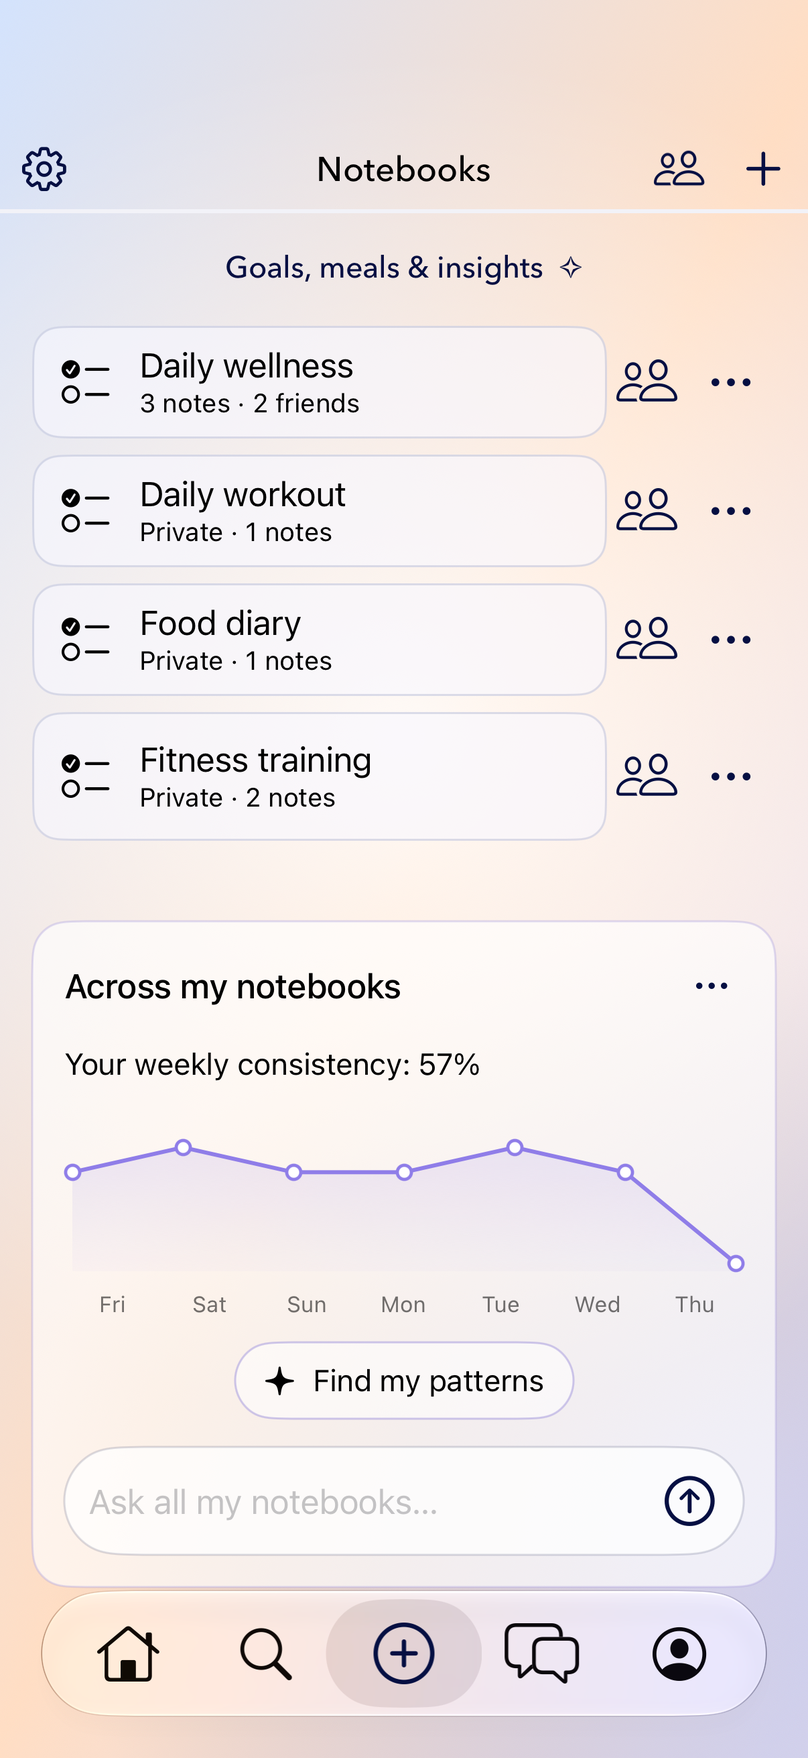
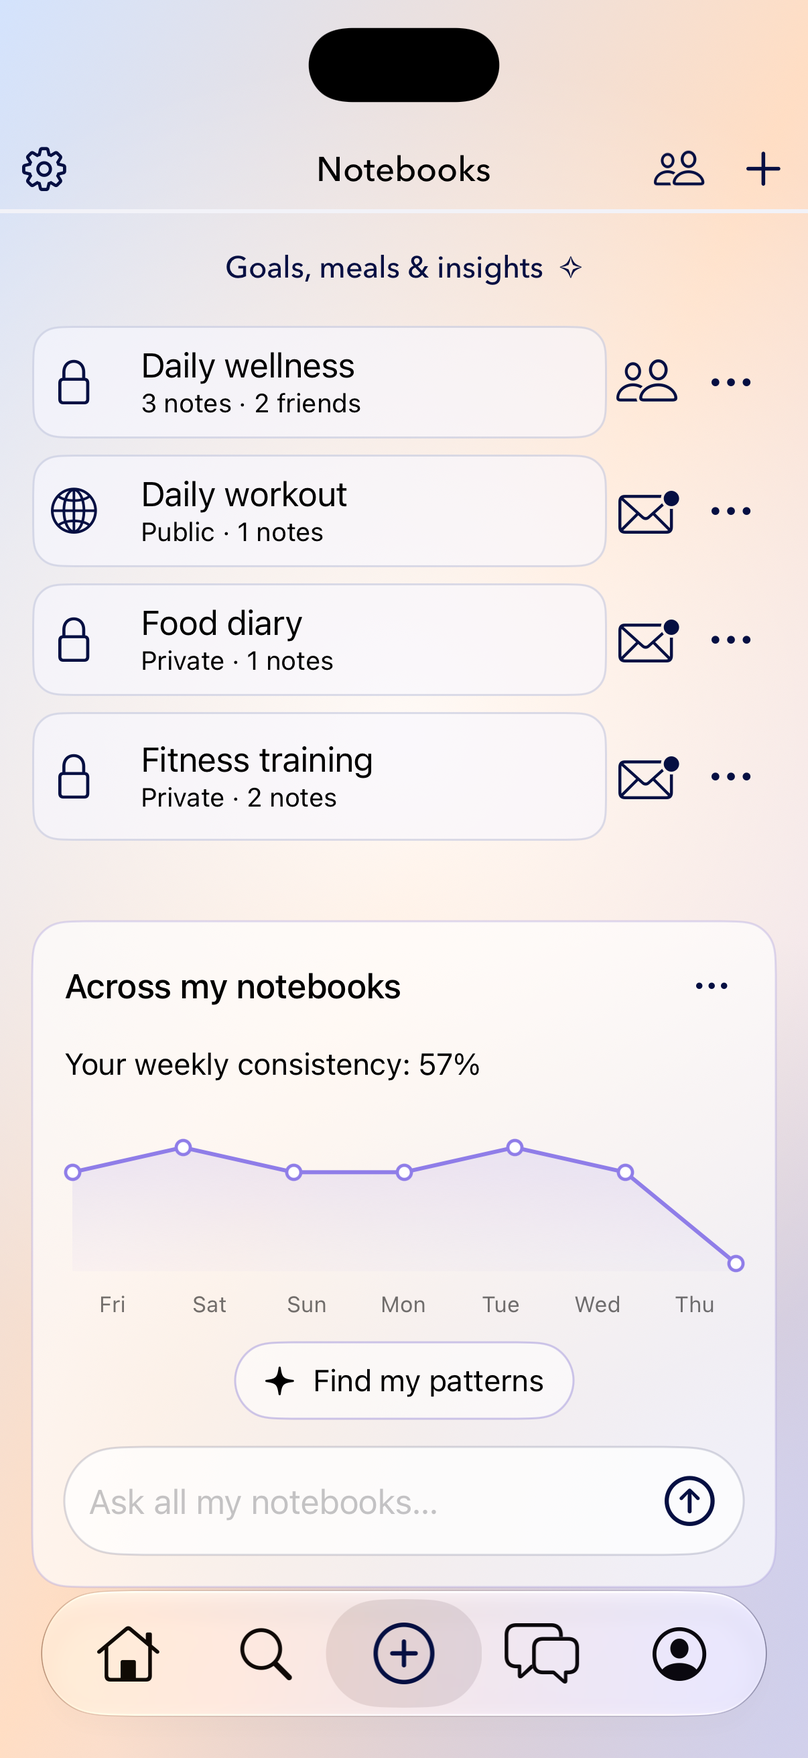
Restore Newsfeed visibility controls and distinguish notebook invitations from accepted editors

diff --git a/Notes/ViewControllers/NoteCategoryListVC.swift b/Notes/ViewControllers/NoteCategoryListVC.swift
@@ -324,15 +324,17 @@ class NoteCategoryListVC: UIViewController, UITableViewDelegate, UITableViewData
         
         cell.btnDelete.removeTarget(self, action: #selector(self.btnDeletePressed(_:)), for: .touchUpInside)
         cell.btnUpdate.removeTarget(self, action: #selector(self.btnUpdatePressed(_:)), for: .touchUpInside)
-        cell.btnUpdate.setImage(UIImage(systemName: "person.2", withConfiguration: UIImage.SymbolConfiguration(pointSize: 18, weight: .regular)), for: .normal)
+        cell.btnUpdate.setImage(UIImage(systemName: CollaborationStore.shared.icon(kind: "legacy", sourceID: note.categoryKey ?? ""), withConfiguration: UIImage.SymbolConfiguration(pointSize: 18, weight: .regular)), for: .normal)
         cell.btnUpdate.tintColor = ApplazAppearance.accent
-        cell.btnUpdate.accessibilityLabel = CollaborationStore.shared.match(kind: "legacy", sourceID: note.categoryKey ?? "") == nil ? "Invite friends to notebook" : "Friends in this notebook"
+        cell.btnUpdate.accessibilityLabel = !CollaborationStore.shared.hasEditors(kind: "legacy", sourceID: note.categoryKey ?? "") ? "Invite friends to notebook" : "Friends in this notebook"
         cell.btnUpdate.removeAction(identifiedBy: UIAction.Identifier("InviteNotebookFriends"), for: .touchUpInside)
         cell.btnUpdate.addAction(UIAction(identifier: UIAction.Identifier("InviteNotebookFriends")) { [weak self, weak cell] _ in
             guard let self, let cell, let row = self.tblViewNoteCateoryTitle.indexPath(for: cell)?.row, let id = self.notes[row].categoryKey else { return }
             CollaborationPresentation.invite(kind: "legacy", sourceID: id, from: self)
         }, for: .touchUpInside)
+        cell.btnShare.removeTarget(self, action: #selector(self.btnSharedPressed(_:)), for: .touchUpInside)
         cell.btnShare.addTarget(self, action: #selector(self.btnSharedPressed(_:)), for: .touchUpInside)
+        cell.btnShare.accessibilityLabel = (note.isPrivateNote == true ? "Private notebook. Make public" : "Public notebook. Make private")
         
         let moreIcon = UIImage(systemName: "ellipsis", withConfiguration: UIImage.SymbolConfiguration(pointSize: 20, weight: .regular))
         cell.btnDelete.setImage(moreIcon, for: .normal)
@@ -355,14 +357,14 @@ class NoteCategoryListVC: UIViewController, UITableViewDelegate, UITableViewData
         
         if self.notes[indexPath.row].isPrivateNote ?? false {
            // cell.btnShare.setTitle("Private", for: .normal)
-            let lockIcon = UIImage(systemName: "lock")?.withRenderingMode(.alwaysTemplate)
+            let lockIcon = UIImage(systemName: "lock", withConfiguration: UIImage.SymbolConfiguration(pointSize: 18, weight: .regular))?.withRenderingMode(.alwaysTemplate)
             cell.btnShare.setImage(lockIcon, for: .normal)
-            cell.btnShare.tintColor = .black
+            cell.btnShare.tintColor = ApplazAppearance.accent
         } else {
             //cell.btnShare.setTitle("Shared", for: .normal)
-            let globeIcon = UIImage(systemName: "globe.americas.fill")?.withRenderingMode(.alwaysTemplate)
+            let globeIcon = UIImage(systemName: "globe", withConfiguration: UIImage.SymbolConfiguration(pointSize: 18, weight: .regular))?.withRenderingMode(.alwaysTemplate)
             cell.btnShare.setImage(globeIcon, for: .normal)
-            cell.btnShare.tintColor = .black
+            cell.btnShare.tintColor = ApplazAppearance.accent
         }
         cell.backGroundView.layer.cornerRadius = 12
         cell.backGroundView.clipsToBounds = true
@@ -477,12 +479,12 @@ class NoteCategoryListVC: UIViewController, UITableViewDelegate, UITableViewData
             config.title = notebook.name
             config.subtitle = (notebook.isPrivate == false ? "Public · " : "Private · ") + String(notebook.notes.count) + " notes"
             if let count = CollaborationStore.shared.match(kind: "health", sourceID: notebook.id)?.editorCount, count > 0 { config.subtitle = String(notebook.notes.count) + " notes · " + String(count) + (count == 1 ? " friend" : " friends") }
-            config.image = UIImage(systemName: notebook.kind == "text" ? "book.closed" : "checklist")
+            config.image = nil
             config.imagePadding = 12; config.baseForegroundColor = .black
-            config.background.backgroundColor = ApplazAppearance.surface
+            config.background.backgroundColor = .clear
             config.background.cornerRadius = 14
             config.background.strokeColor = ApplazAppearance.outline
-            config.background.strokeWidth = 1
+            config.background.strokeWidth = 0
             button.configuration = config
             button.contentHorizontalAlignment = .leading
             button.addAction(UIAction { [weak self] _ in guard let self else { return }; if let shared = CollaborationStore.shared.match(kind: "health", sourceID: notebook.id) { CollaborationPresentation.open(shared.id, from: self) } else { WellnessPresentation.notebook(notebook.id, from: self) } }, for: .touchUpInside)
@@ -505,11 +507,21 @@ class NoteCategoryListVC: UIViewController, UITableViewDelegate, UITableViewData
             more.menu = UIMenu(children: options)
             more.widthAnchor.constraint(equalToConstant: 44).isActive = true
             let invite = UIButton(type: .system)
-            invite.setImage(UIImage(systemName: "person.2", withConfiguration: UIImage.SymbolConfiguration(pointSize: 18, weight: .regular)), for: .normal); invite.tintColor = ApplazAppearance.accent
-            invite.accessibilityLabel = CollaborationStore.shared.match(kind: "health", sourceID: notebook.id) == nil ? "Invite friends to " + notebook.name : "Friends in " + notebook.name
+            invite.setImage(UIImage(systemName: CollaborationStore.shared.icon(kind: "health", sourceID: notebook.id), withConfiguration: UIImage.SymbolConfiguration(pointSize: 18, weight: .regular)), for: .normal); invite.tintColor = ApplazAppearance.accent
+            invite.accessibilityLabel = !CollaborationStore.shared.hasEditors(kind: "health", sourceID: notebook.id) ? "Invite friends to " + notebook.name : "Friends in " + notebook.name
             invite.widthAnchor.constraint(equalToConstant: 36).isActive = true
             invite.addAction(UIAction { [weak self] _ in guard let self else { return }; CollaborationPresentation.invite(kind: "health", sourceID: notebook.id, from: self) }, for: .touchUpInside)
-            let row = UIStackView(arrangedSubviews: [button, invite, more]); row.spacing = 2
+            let visibility = UIButton(type: .system)
+            visibility.setImage(UIImage(systemName: notebook.isPrivate == false ? "globe" : "lock", withConfiguration: UIImage.SymbolConfiguration(pointSize: 18, weight: .regular)), for: .normal)
+            visibility.tintColor = ApplazAppearance.accent
+            visibility.accessibilityLabel = "Visibility of " + notebook.name
+            visibility.accessibilityValue = notebook.isPrivate == false ? "Public" : "Private"
+            visibility.widthAnchor.constraint(equalToConstant: 42).isActive = true
+            visibility.isEnabled = notebook.id != "start-here-v1"
+            visibility.addAction(UIAction { [weak self] _ in self?.changeWellnessVisibility(notebook.id) }, for: .touchUpInside)
+            let content = UIStackView(arrangedSubviews: [visibility, button]); content.spacing = 0
+            content.backgroundColor = ApplazAppearance.surface; content.layer.cornerRadius = 14; content.layer.borderWidth = 1; content.layer.borderColor = ApplazAppearance.outline.cgColor
+            let row = UIStackView(arrangedSubviews: [content, invite, more]); row.spacing = 2
             row.heightAnchor.constraint(equalToConstant: 56).isActive = true
             stack.addArrangedSubview(row)
         }
@@ -524,6 +536,14 @@ class NoteCategoryListVC: UIViewController, UITableViewDelegate, UITableViewData
         tblViewNoteCateoryTitle.tableHeaderView = header
         tblViewNoteCateoryTitle.isHidden = false
         lblNotesCategoryNotFound.isHidden = true
+    }
+    private func changeWellnessVisibility(_ id: String) {
+        guard let notebook = WellnessStore.shared.notebooks.first(where: { $0.id == id }), id != "start-here-v1" else { return }
+        let makePrivate = notebook.isPrivate == false
+        let alert = UIAlertController(title: makePrivate ? "Make notebook private?" : "Share notebook to Newsfeed?", message: makePrivate ? "Your notebook will no longer appear in Newsfeed. Your collaborators can still edit it." : "Public notes can appear in Newsfeed. Meal logs, dated health reflections and AI chats stay private.", preferredStyle: .alert)
+        alert.addAction(UIAlertAction(title: "Cancel", style: .cancel))
+        alert.addAction(UIAlertAction(title: makePrivate ? "Make private" : "Make public", style: .default) { _ in WellnessStore.shared.setVisibility(id, isPrivate: makePrivate) })
+        present(alert, animated: true)
     }
     @objc private func openPrivateNotebooks() { WellnessPresentation.library(from: self) }
 
@@ -650,57 +670,28 @@ class NoteCategoryListVC: UIViewController, UITableViewDelegate, UITableViewData
     private func updateDataBase() {
         
     }
-    @objc func btnSharedPressed(_ sender : UIButton) {
-        var note = self.notes[sender.tag]
-        guard let isPrivateNote = note.isPrivateNote else { return }
-        
-        if isPrivateNote {
-            // Ask here to make socialised
-            self.alertPermissionMessage(message: "Are you sure? \n To make your notebook public.") { isProceed in
-                if isProceed {
-                    // Update the note as social isPrivate = false
-                    if !(UserDefaults.standard.bool(forKey: Guest_Key)) {
-                        self.database.editDatabaseRecords(categoryNote: note.categoryName, titleNote: nil, categoryKey: note.categoryKey, titleKey: nil, note: nil, isPrivateNote: false){ (err) in
-                            if let _ = err {
-                                // Toast(text: "\(kCATEGORY_NOT_UPDATED)").show()
-                            } else {
-                                // Toast(text: "\(kCATEGORY_UPDATED)").show()
-                            }
-                        }
-                          self.getNotesAllCategories()
-                    } else {
-                        note.categoryName = note.categoryName
-                        self.notes.remove(at: sender.tag)
-                        self.notes.append(note)
-                        self.updateTableView()
+    @objc func btnSharedPressed(_ sender: UIButton) {
+        guard notes.indices.contains(sender.tag) else { return }
+        let original = notes[sender.tag]
+        let makePrivate = original.isPrivateNote != true
+        alertPermissionMessage(message: makePrivate ? "Make this notebook private?" : "Share this notebook to Newsfeed?") { [weak self] proceed in
+            guard proceed, let self else { return }
+            if UserDefaults.standard.bool(forKey: Guest_Key) {
+                guard self.notes.indices.contains(sender.tag) else { return }
+                self.notes[sender.tag].isPrivateNote = makePrivate
+                self.updateTableView()
+            } else {
+                self.database.editDatabaseRecords(categoryNote: original.categoryName, titleNote: nil, categoryKey: original.categoryKey, titleKey: nil, note: nil, isPrivateNote: makePrivate) { [weak self] error in
+                    DispatchQueue.main.async {
+                        guard let self else { return }
+                        if error == nil { self.getNotesAllCategories() }
+                        else { let alert = UIAlertController(title: "Couldn’t update visibility", message: "Please try again.", preferredStyle: .alert); alert.addAction(UIAlertAction(title: "OK", style: .default)); self.present(alert, animated: true) }
                     }
-                }
-            }
-        } else {
-            // Ask here to make private
-            self.alertPermissionMessage(message: "Are you sure? \n To make your notebook private.") { isProceed in
-                // Update the note as private = true
-                if !(UserDefaults.standard.bool(forKey: Guest_Key)) {
-                    self.database.editDatabaseRecords(categoryNote: note.categoryName, titleNote: nil, categoryKey: note.categoryKey, titleKey: nil, note: nil, isPrivateNote: true){ (err) in
-                        if let _ = err {
-                            // Toast(text: "\(kCATEGORY_NOT_UPDATED)").show()
-                        } else {
-                            // Toast(text: "\(kCATEGORY_UPDATED)").show()
-                        }
-                    }
-                      self.getNotesAllCategories()
-                } else {
-                    note.categoryName = note.categoryName
-                    self.notes.remove(at: sender.tag)
-                    self.notes.append(note)
-                    self.updateTableView()
                 }
             }
         }
     }
-    
-    
-    
+
     @IBAction func btnSettingPressed(_ sender: UIButton) {
         let settingsVC = self.storyboard?.instantiateViewController(withIdentifier: "SettingsVC") as! SettingsVC
         self.navigationController?.pushViewController(settingsVC, animated: true)

diff --git a/Notes/Wellness/WellnessScreens.swift b/Notes/Wellness/WellnessScreens.swift
@@ -247,6 +247,7 @@ struct WellnessLibraryView: View {
     @State private var chat = false
     @State private var inviteID: String?
     @State private var invitationError: String?
+    @State private var visibilityID: String?
     var close: () -> Void
     var body: some View {
         NavigationView { ZStack { WellnessBackground(); VStack(spacing: 0) {
@@ -254,10 +255,11 @@ struct WellnessLibraryView: View {
             ScrollView { VStack(alignment: .leading, spacing: 16) {
                 HStack { Text("Your notebooks").font(.headline); Spacer(); Button { chat = true } label: { Image(systemName: "clock.arrow.circlepath") }.accessibilityLabel("Saved chats") }
                 ForEach(store.notebooks) { notebook in HStack(spacing: 10) {
+                    Button { visibilityID = notebook.id } label: { Image(systemName: notebook.isPrivate == false ? "globe" : "lock").font(.system(size: 18, weight: .regular)).foregroundColor(.applazAccent).frame(width: 36, height: 44) }.accessibilityLabel("Visibility of " + notebook.name).accessibilityValue(notebook.isPrivate == false ? "Public" : "Private").disabled(notebook.id == "start-here-v1")
                     NavigationLink(destination: notebookDestination(notebook.id)) {
-                        HStack { Image(systemName: notebook.kind == "text" ? "book.closed" : "checklist").foregroundColor(.applazAccent); VStack(alignment: .leading, spacing: 4) { Text(notebook.name).font(.headline); Text("\(notebook.isPrivate == false ? "Public" : "Private") · \(notebook.notes.count) \(notebook.notes.count == 1 ? "note" : "notes")").font(.caption).foregroundColor(.black.opacity(0.55)) }; Spacer() }
+                        HStack { VStack(alignment: .leading, spacing: 4) { Text(notebook.name).font(.headline); Text("\(notebook.isPrivate == false ? "Public" : "Private") · \(notebook.notes.count) \(notebook.notes.count == 1 ? "note" : "notes")").font(.caption).foregroundColor(.black.opacity(0.55)) }; Spacer() }
                     }.buttonStyle(.plain)
-                    Button { inviteID = notebook.id } label: { Image(systemName: "person.2").font(.system(size: 18, weight: .regular)).frame(width: 36, height: 44) }.accessibilityLabel(collaboration.match(kind: "health", sourceID: notebook.id) == nil ? "Invite friends to " + notebook.name : "Friends in " + notebook.name)
+                    Button { inviteID = notebook.id } label: { Image(systemName: collaboration.icon(kind: "health", sourceID: notebook.id)).font(.system(size: 18, weight: .regular)).frame(width: 36, height: 44) }.accessibilityLabel(!collaboration.hasEditors(kind: "health", sourceID: notebook.id) ? "Invite friends to " + notebook.name : "Friends in " + notebook.name)
                 }.wellnessCard() }
                 ForEach(collaboration.sharedWithMe) { shared in
                     NavigationLink(destination: CollaborativeNotebookView(notebookID: shared.id)) {
@@ -273,9 +275,15 @@ struct WellnessLibraryView: View {
         }}.foregroundColor(.black).tint(.applazAccent).navigationBarHidden(true) }
         .task { await collaboration.refresh() }
         .sheet(isPresented: Binding(get: { inviteID != nil }, set: { if !$0 { inviteID = nil } })) {
-            if let id = inviteID, let shared = collaboration.match(kind: "health", sourceID: id) { CollaborationMembersView(notebookID: shared.id, notebookName: shared.name) }
+            if let id = inviteID, let shared = collaboration.match(kind: "health", sourceID: id), (shared.editorCount ?? 0) > 0 { CollaborationMembersView(notebookID: shared.id, notebookName: shared.name) }
             else { CollaborationPeoplePicker(done: { people in let id = inviteID; inviteID = nil; guard let id else { return }; Task { do { _ = try await collaboration.invite(kind: "health", sourceID: id, people: people) } catch { invitationError = error.localizedDescription } } }, cancel: { inviteID = nil }) }
         }
+        .confirmationDialog("Notebook visibility", isPresented: Binding(get: { visibilityID != nil }, set: { if !$0 { visibilityID = nil } }), titleVisibility: .visible) {
+            if let id = visibilityID, let notebook = store.notebooks.first(where: { $0.id == id }) {
+                Button(notebook.isPrivate == false ? "Make private" : "Make public") { store.setVisibility(id, isPrivate: notebook.isPrivate == false); visibilityID = nil }
+            }
+            Button("Cancel", role: .cancel) { visibilityID = nil }
+        } message: { Text("Public notes can appear in Newsfeed. Collaborator editing access is separate.") }
         .alert("Couldn’t send invitations", isPresented: Binding(get: { invitationError != nil }, set: { if !$0 { invitationError = nil } })) { Button("OK", role: .cancel) {} } message: { Text(invitationError ?? "") }
         .navigationViewStyle(.stack).confirmationDialog("Copy guest notebooks and meals from this device into your signed-in account?", isPresented: $importGuest, titleVisibility: .visible) { Button("Copy my guest work") { store.importGuestWork() } }.sheet(isPresented: $create) { CreateWellnessNotebookView().modifier(WellnessHalfSheet()) }.sheet(isPresented: $chat) { NavigationView { SavedAIChatsView() } }
     }

diff --git a/Notes/Wellness/Collaboration.swift b/Notes/Wellness/Collaboration.swift
@@ -118,6 +118,8 @@ struct CollaborationMembersView: View {
         #endif
         return notebooks.first { $0.kind == kind && $0.sourceID == sourceID && $0.owner == Auth.auth().currentUser?.uid }
     }
+    func hasEditors(kind: String, sourceID: String) -> Bool { (match(kind: kind, sourceID: sourceID)?.editorCount ?? 0) > 0 }
+    func icon(kind: String, sourceID: String) -> String { hasEditors(kind: kind, sourceID: sourceID) ? "person.2" : "envelope.badge" }
     var sharedWithMe: [CollaborativeNotebook] { notebooks.filter { $0.role != "owner" } }
     func invite(kind: String, sourceID: String, people: [CollaborationPerson], notebookID: String? = nil) async throws -> String {
         var data: [String: Any] = ["kind": kind, "sourceID": sourceID, "recipients": people.map(\.id)]
@@ -155,7 +157,7 @@ struct CollaborationMembersView: View {
         controller.present(view, animated: true)
     }
     static func invite(kind: String, sourceID: String, notebookID: String? = nil, from controller: UIViewController) {
-        if let shared = notebookID.flatMap({ id in CollaborationStore.shared.notebooks.first { $0.id == id } }) ?? CollaborationStore.shared.match(kind: kind, sourceID: sourceID) {
+        if let shared = notebookID.flatMap({ id in CollaborationStore.shared.notebooks.first { $0.id == id } }) ?? CollaborationStore.shared.match(kind: kind, sourceID: sourceID), (shared.editorCount ?? 0) > 0 {
             let host = WellnessHostingController(rootView: CollaborationMembersView(notebookID: shared.id, notebookName: shared.name))
             host.modalPresentationStyle = .pageSheet
             host.sheetPresentationController?.detents = [.medium(), .large()]

diff --git a/functions/collaboration/index.js b/functions/collaboration/index.js
@@ -268,7 +268,7 @@ exports.collaborationLegacyChanged = functions.database.ref("/Users/{owner}/Note
     if (!after) { tx.set(ref, {deleted: true, updatedAt: now}, {merge: true}); return; }
     const current = await readState(tx, ref, meta);
     const notes = new Map(current.notes.map(note => [note.id, note]));
-    let changed = current.name !== after["Category Name"];
+    let changed = current.name !== after["Category Name"] || current.isPrivate !== (after.isPrivateNote !== false);
     for (const note of fromLegacy(after, meta.sourceID, now).notes) {
       const prior = before[note.id]; const existing = notes.get(note.id);
       const differs = !prior || prior["Title name"] !== note.title || prior["Note name"] !== note.body;
@@ -276,7 +276,7 @@ exports.collaborationLegacyChanged = functions.database.ref("/Users/{owner}/Note
     }
     for (const id of Object.keys(before)) if (before[id] && typeof before[id] === "object" && before[id]["Title name"] !== undefined && !after[id]) { if (notes.delete(id)) changed = true; }
     if (!changed) return;
-    current.notes = [...notes.values()]; current.name = after["Category Name"] || current.name; current.updatedAt = now;
+    current.notes = [...notes.values()]; current.name = after["Category Name"] || current.name; current.isPrivate = after.isPrivateNote !== false; current.updatedAt = now;
     writeState(tx, ref, meta, current); tx.set(ref, {name: current.name, revision: meta.revision + 1, updatedAt: now}, {merge: true});
     return null;
   });

diff --git a/Notes/Storyboards/UtilityManager/Gradient Layer.swift b/Notes/Storyboards/UtilityManager/Gradient Layer.swift
@@ -597,7 +597,7 @@ final class NewNotebookViewController: UIViewController {
             return row
         }
         var friendsConfig = UIButton.Configuration.plain()
-        friendsConfig.title = "Invite friends"; friendsConfig.image = UIImage(systemName: "person.2", withConfiguration: UIImage.SymbolConfiguration(pointSize: 18, weight: .regular)); friendsConfig.imagePadding = 8
+        friendsConfig.title = "Invite friends"; friendsConfig.image = UIImage(systemName: "envelope.badge", withConfiguration: UIImage.SymbolConfiguration(pointSize: 18, weight: .regular)); friendsConfig.imagePadding = 8
         friendsConfig.baseForegroundColor = ApplazAppearance.accent
         inviteFriendsButton.configuration = friendsConfig
         inviteFriendsButton.tintColor = ApplazAppearance.accent

diff --git a/docs/Applaz-Plus-activation.md b/docs/Applaz-Plus-activation.md
@@ -143,3 +143,14 @@ The subscription hero is an open notebook spread with a daily checklist, a weekl
 The simulator build, eighteen policy checks, ESLint and local Firebase invitation/member-list integration passed. The editing-list endpoint and accepted friend counts are deployed to applaz-32772. Preview helpers are restricted to Debug, an explicit local preview environment and a signed-out account; they cannot grant production access.
 
 The accepted editing-list navigation and the subscription trial/purchase checks passed in the native simulator. Apple local StoreKit testing used product 299, a one-week free introductory offer and a $2.99 weekly price; tapping the real app button created the expected local StoreKit transaction with no charge. This is local purchase verification, not a claim that a production Apple Account was charged or that an App Store Connect offer was changed.
+
+
+## Separate Newsfeed visibility and collaboration — build 1.0.16 (16)
+
+Owned notebook rows restore a tappable outlined globe for Public and lock for Private. This controls Newsfeed visibility, separately from editing access. The existing More menu visibility action remains. The starter notebook retains its required private state.
+
+An outlined envelope invitation icon is shown until at least one editor accepts; the people icon appears only for accepted collaborators. Pending invitations and a public notebook alone do not mark it as collaboratively shared. The new-notebook invite control uses the same envelope symbol.
+
+Visibility confirmation respects Cancel, preserves notebook order and changes only the privacy flag for legacy guest rows, reports legacy cloud update failures, and preserves accepted editor membership. The legacy source-to-collaboration mirror now applies privacy-only changes without replacing note content or membership. Local Firebase integration, eighteen policy tests, lint and simulator compilation passed.
+
+The build-16 native preview was visually checked. Its automated tap test stalled while establishing the simulator automation session and is not reported as passing. Backend visibility/member preservation checks passed.
